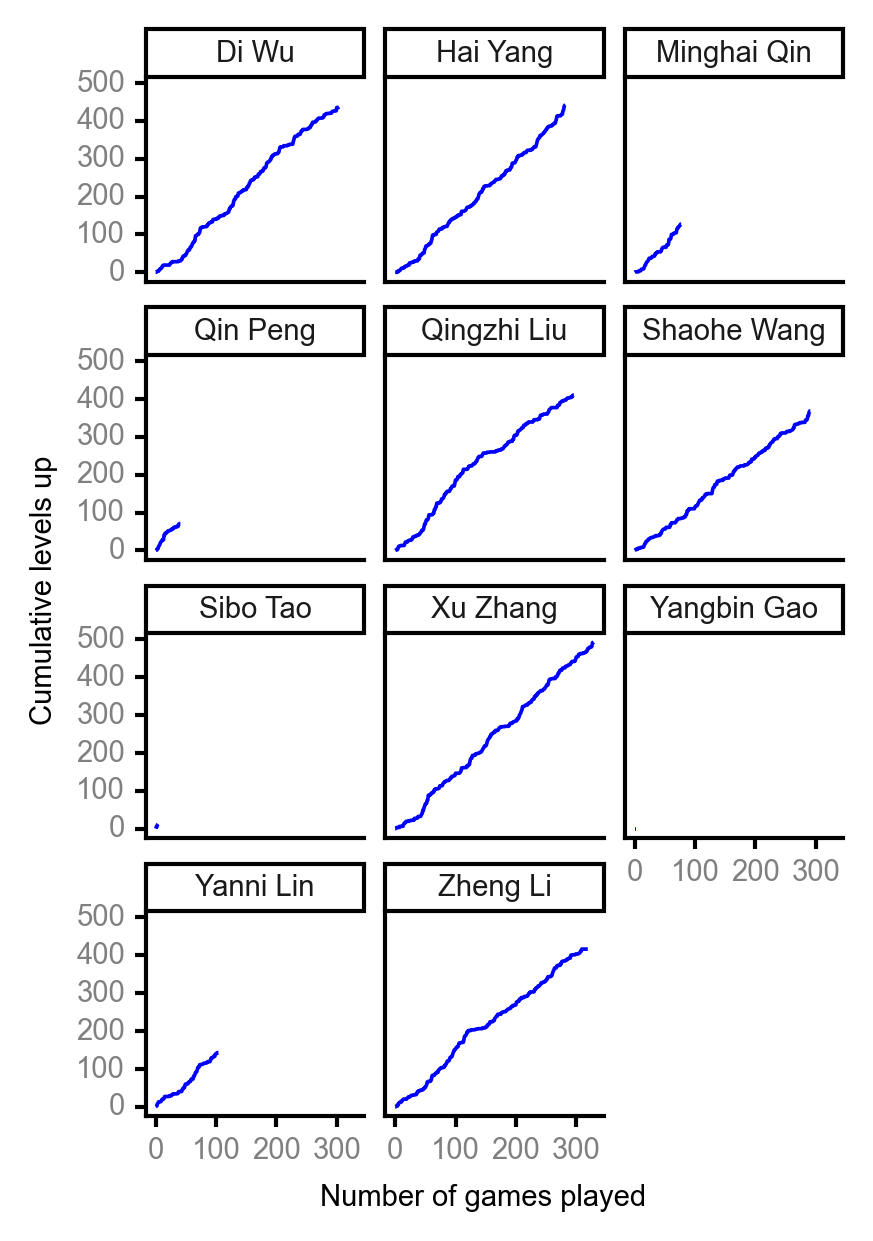
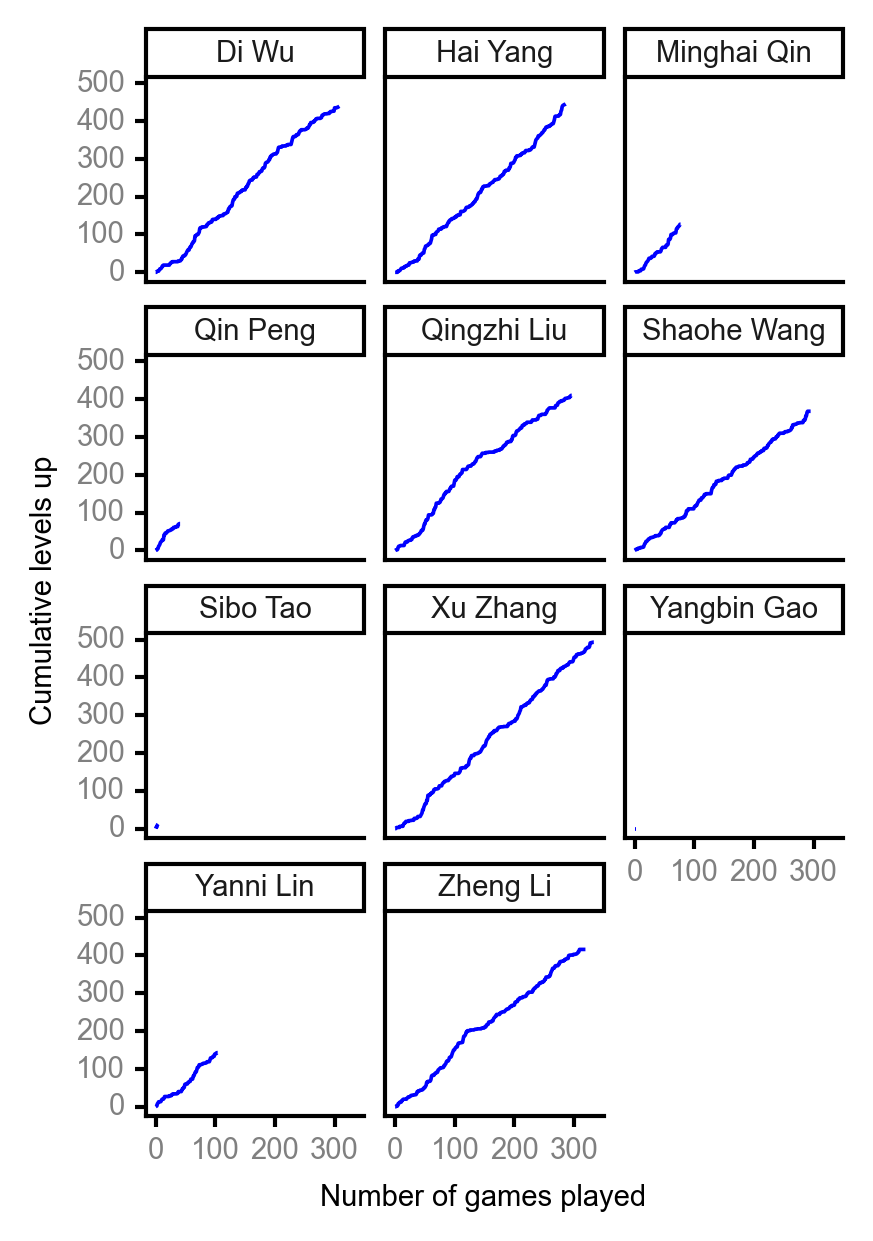
update player stats

diff --git a/player_stats.md b/player_stats.md
@@ -3,7 +3,7 @@ layout: player_stats
 title: Player Statistics
 author: Shaohe Wang
 author_url: https://scholar.google.com/citations?user=R_-kJV4AAAAJ&hl=en
-date: 2021-08-01
+date: 2021-08-07
 ---
 
 #### [Spreadsheet](https://docs.google.com/spreadsheets/d/1So3PBr9gV3I0LzApZOgJlQew2QjM1wAiWhR50rAnHRg/edit#gid=2137801449)
@@ -14,12 +14,12 @@ date: 2021-08-01
 
 | <br><br><br>Rank | <br><br><br>Player | <br> Lifetime <br> levels <br> up | <br><br> Winning <br> rate | <br> Average <br> levels <br> up | <br> Total <br> games <br> played | Games <br> played <br> as <br> MVP | Games <br> played <br> as <br> dealer | N_games <br> short <br> staffed <br> as dealer | Winning <br> rate <br> as <br> dealer |
 |:---:|:---:|:---:|:---:|:---:|:---:|:---:|:---:|:---:|:---:|
-| 1 | Xu <br> Zhang | 492 | 54.8% | 2.72 | 330 | 20 | 63 | 2 | 52.4% |
-| 2 | Hai <br> Yang | 443 | 53.0% | 2.95 | 283 | 26 | 53 | 1 | 56.6% |
-| 3 | Di <br> Wu | 436 | 48.9% | 2.91 | 305 | 35 | 52 | 0 | 50.0% |
+| 1 | Xu <br> Zhang | 493 | 54.5% | 2.71 | 334 | 20 | 64 | 2 | 51.6% |
+| 2 | Hai <br> Yang | 448 | 53.3% | 2.93 | 287 | 26 | 55 | 1 | 58.2% |
+| 3 | Di <br> Wu | 442 | 49.5% | 2.88 | 309 | 35 | 53 | 0 | 50.9% |
 | 4 | Zheng <br> Li | 417 | 51.6% | 2.52 | 320 | 15 | 49 | 1 | 55.1% |
 | 5 | Qingzhi <br> Liu | 411 | 50.5% | 2.73 | 297 | 16 | 52 | 4 | 44.2% |
-| 6 | Shaohe <br> Wang | 368 | 45.2% | 2.79 | 292 | 15 | 48 | 3 | 43.8% |
+| 6 | Shaohe <br> Wang | 368 | 44.6% | 2.79 | 296 | 15 | 48 | 3 | 43.8% |
 | 7 | Yanni <br> Lin | 144 | 47.6% | 2.88 | 105 | 10 | 11 | 2 | 36.4% |
 | 8 | Minghai <br> Qin | 127 | 52.6% | 3.10 | 78 | 1 | 11 | 1 | 72.7% |
 | 9 | Qin <br> Peng | 72 | 59.5% | 2.88 | 42 | 4 | 4 | 0 | 75.0% |
